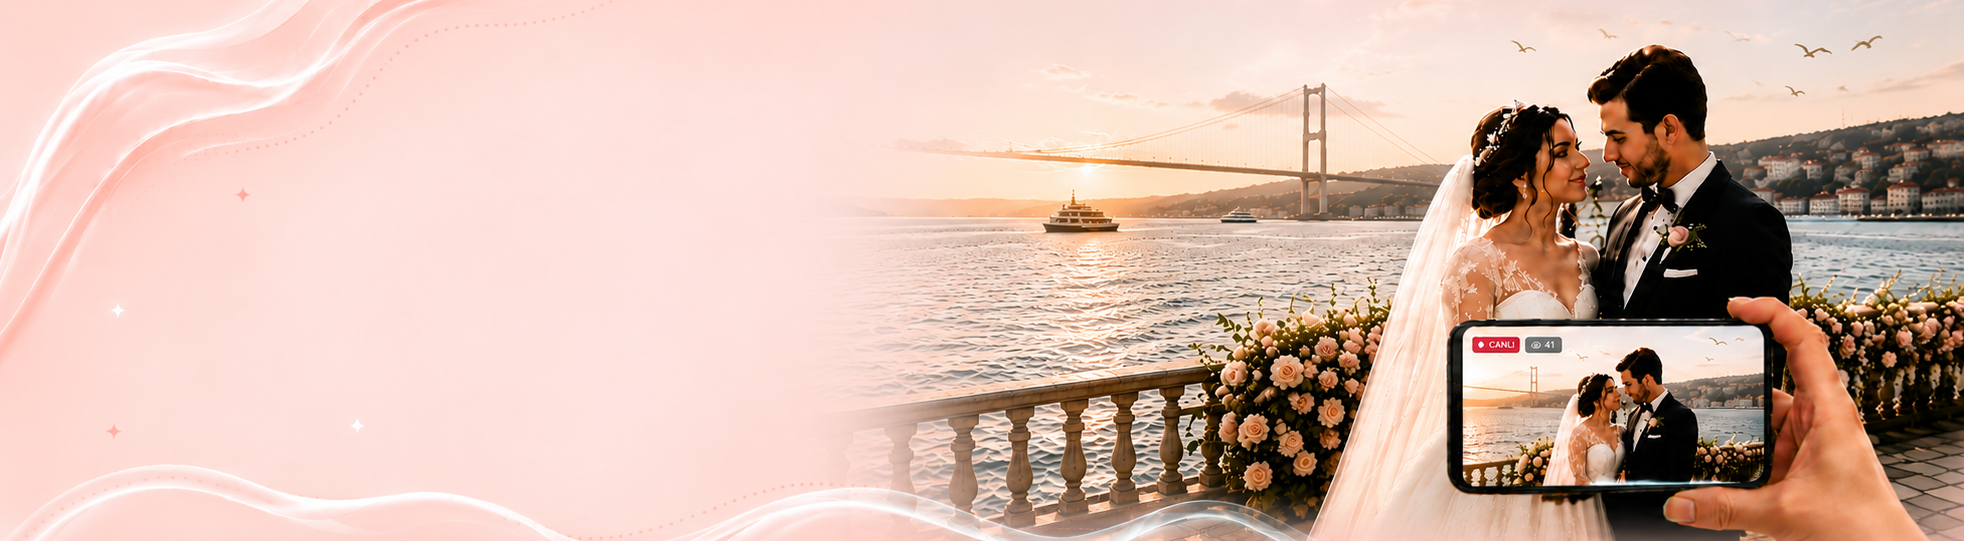
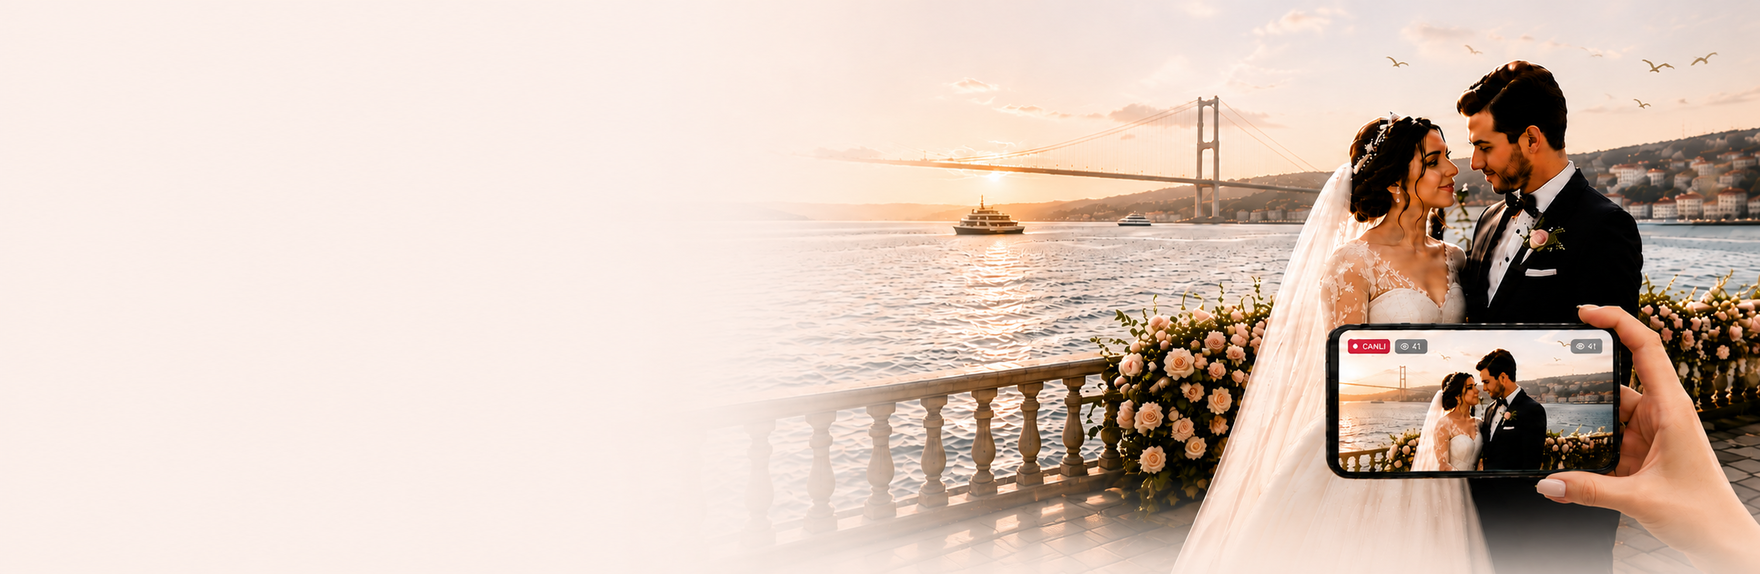
Canli Yayin karti: yeni stil gorseller (krem fade baked), CSS overlay kaldirildi, aspect 2195/716

diff --git a/app/page.tsx b/app/page.tsx
@@ -994,15 +994,10 @@ export default function Home() {
       <section id="ozellikler" className="py-16" style={{ scrollMarginTop: '80px' }}>
         <div className="max-w-[1340px] mx-auto px-6 space-y-16 md:space-y-20">
           {/* Canlı Yayın - mobile (1:1 kare) + desktop (image aspect 1964/541 ≈ 3.63:1, ~339px) */}
-          <div className="feature-card-hover relative rounded-[28px] overflow-hidden mx-auto w-full aspect-square lg:aspect-[1964/640] max-w-[720px] lg:max-w-none" style={{ boxShadow: '0 18px 50px rgba(72,47,42,0.055), 0 2px 8px rgba(72,47,42,0.025)', border: '1px solid rgba(174,112,108,0.13)' }}>
+          <div className="feature-card-hover relative rounded-[28px] overflow-hidden mx-auto w-full aspect-square lg:aspect-[2195/716] max-w-[720px] lg:max-w-none" style={{ boxShadow: '0 18px 50px rgba(72,47,42,0.055), 0 2px 8px rgba(72,47,42,0.025)', border: '1px solid rgba(174,112,108,0.13)' }}>
+            {/* Yeni stil — krem fade görselin içinde gömülü, CSS overlay yok */}
             <img src="/bg-canli-yayin-s2.png" alt="" className="lg:hidden absolute inset-0 w-full h-full object-cover pointer-events-none select-none" />
-            {/* Mobil — sol + alt hafif rose-krem (resim sağda, kart hafif belirir) */}
-            <div className="lg:hidden absolute inset-0 pointer-events-none" style={{ background: 'linear-gradient(to right, rgba(250,243,235,0.88) 0%, rgba(250,243,235,0.85) 36%, rgba(250,243,235,0.55) 56%, rgba(250,243,235,0.2) 78%, rgba(250,243,235,0) 94%)' }} />
-            <div className="lg:hidden absolute inset-x-0 bottom-0 pointer-events-none" style={{ height: '15%', background: 'linear-gradient(0deg, rgba(250,243,235,0.85) 0%, transparent 100%)' }} />
             <img src="/bg-canli-yayin-masaustu.png" alt="Canlı Yayın ile mutluluğunuzu paylaşın" className="hidden lg:block absolute inset-0 w-full h-full object-cover pointer-events-none select-none" />
-            {/* Cream overlay — sol içerik tarafı krem (Canlı Yayın için daha ince — rose tonu öne çıksın) */}
-            <div className="hidden lg:block absolute inset-0 pointer-events-none" style={{ background: 'linear-gradient(to right, rgba(250,243,235,0.9) 0%, rgba(250,243,235,0.88) 38%, rgba(250,243,235,0.6) 56%, rgba(250,243,235,0.24) 76%, rgba(250,243,235,0) 92%)' }} />
-            <div className="hidden lg:block absolute inset-x-0 bottom-0 pointer-events-none" style={{ height: '18%', background: 'linear-gradient(0deg, rgba(250,243,235,0.88) 0%, rgba(250,243,235,0.4) 45%, transparent 100%)' }} />
 
             {/* Mobil heading + dash + açıklama + badges */}
             <div className="lg:hidden absolute" style={{ top: '12%', left: '5.5%', width: '54%' }}>
